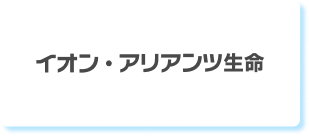
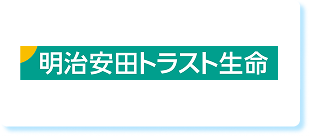
保険会社の画像差し替え

Changed region(s): [[0.0583, 0.3235, 0.9029, 0.5882]]

diff --git a/src/index.html b/src/index.html
@@ -194,7 +194,7 @@
                       <div class="splide__slide">
                         <picture>
                           <source srcset="images/webp/slider1_8.webp" type="image/webp" />
-                          <img src="images/slider1_8.png" alt="イオン・アリアンツ生命" width="150" height="63" />
+                          <img src="images/slider1_8.png" alt="明治安田トラスト生命" width="150" height="63" />
                         </picture>
                       </div>
                       <div class="splide__slide">
